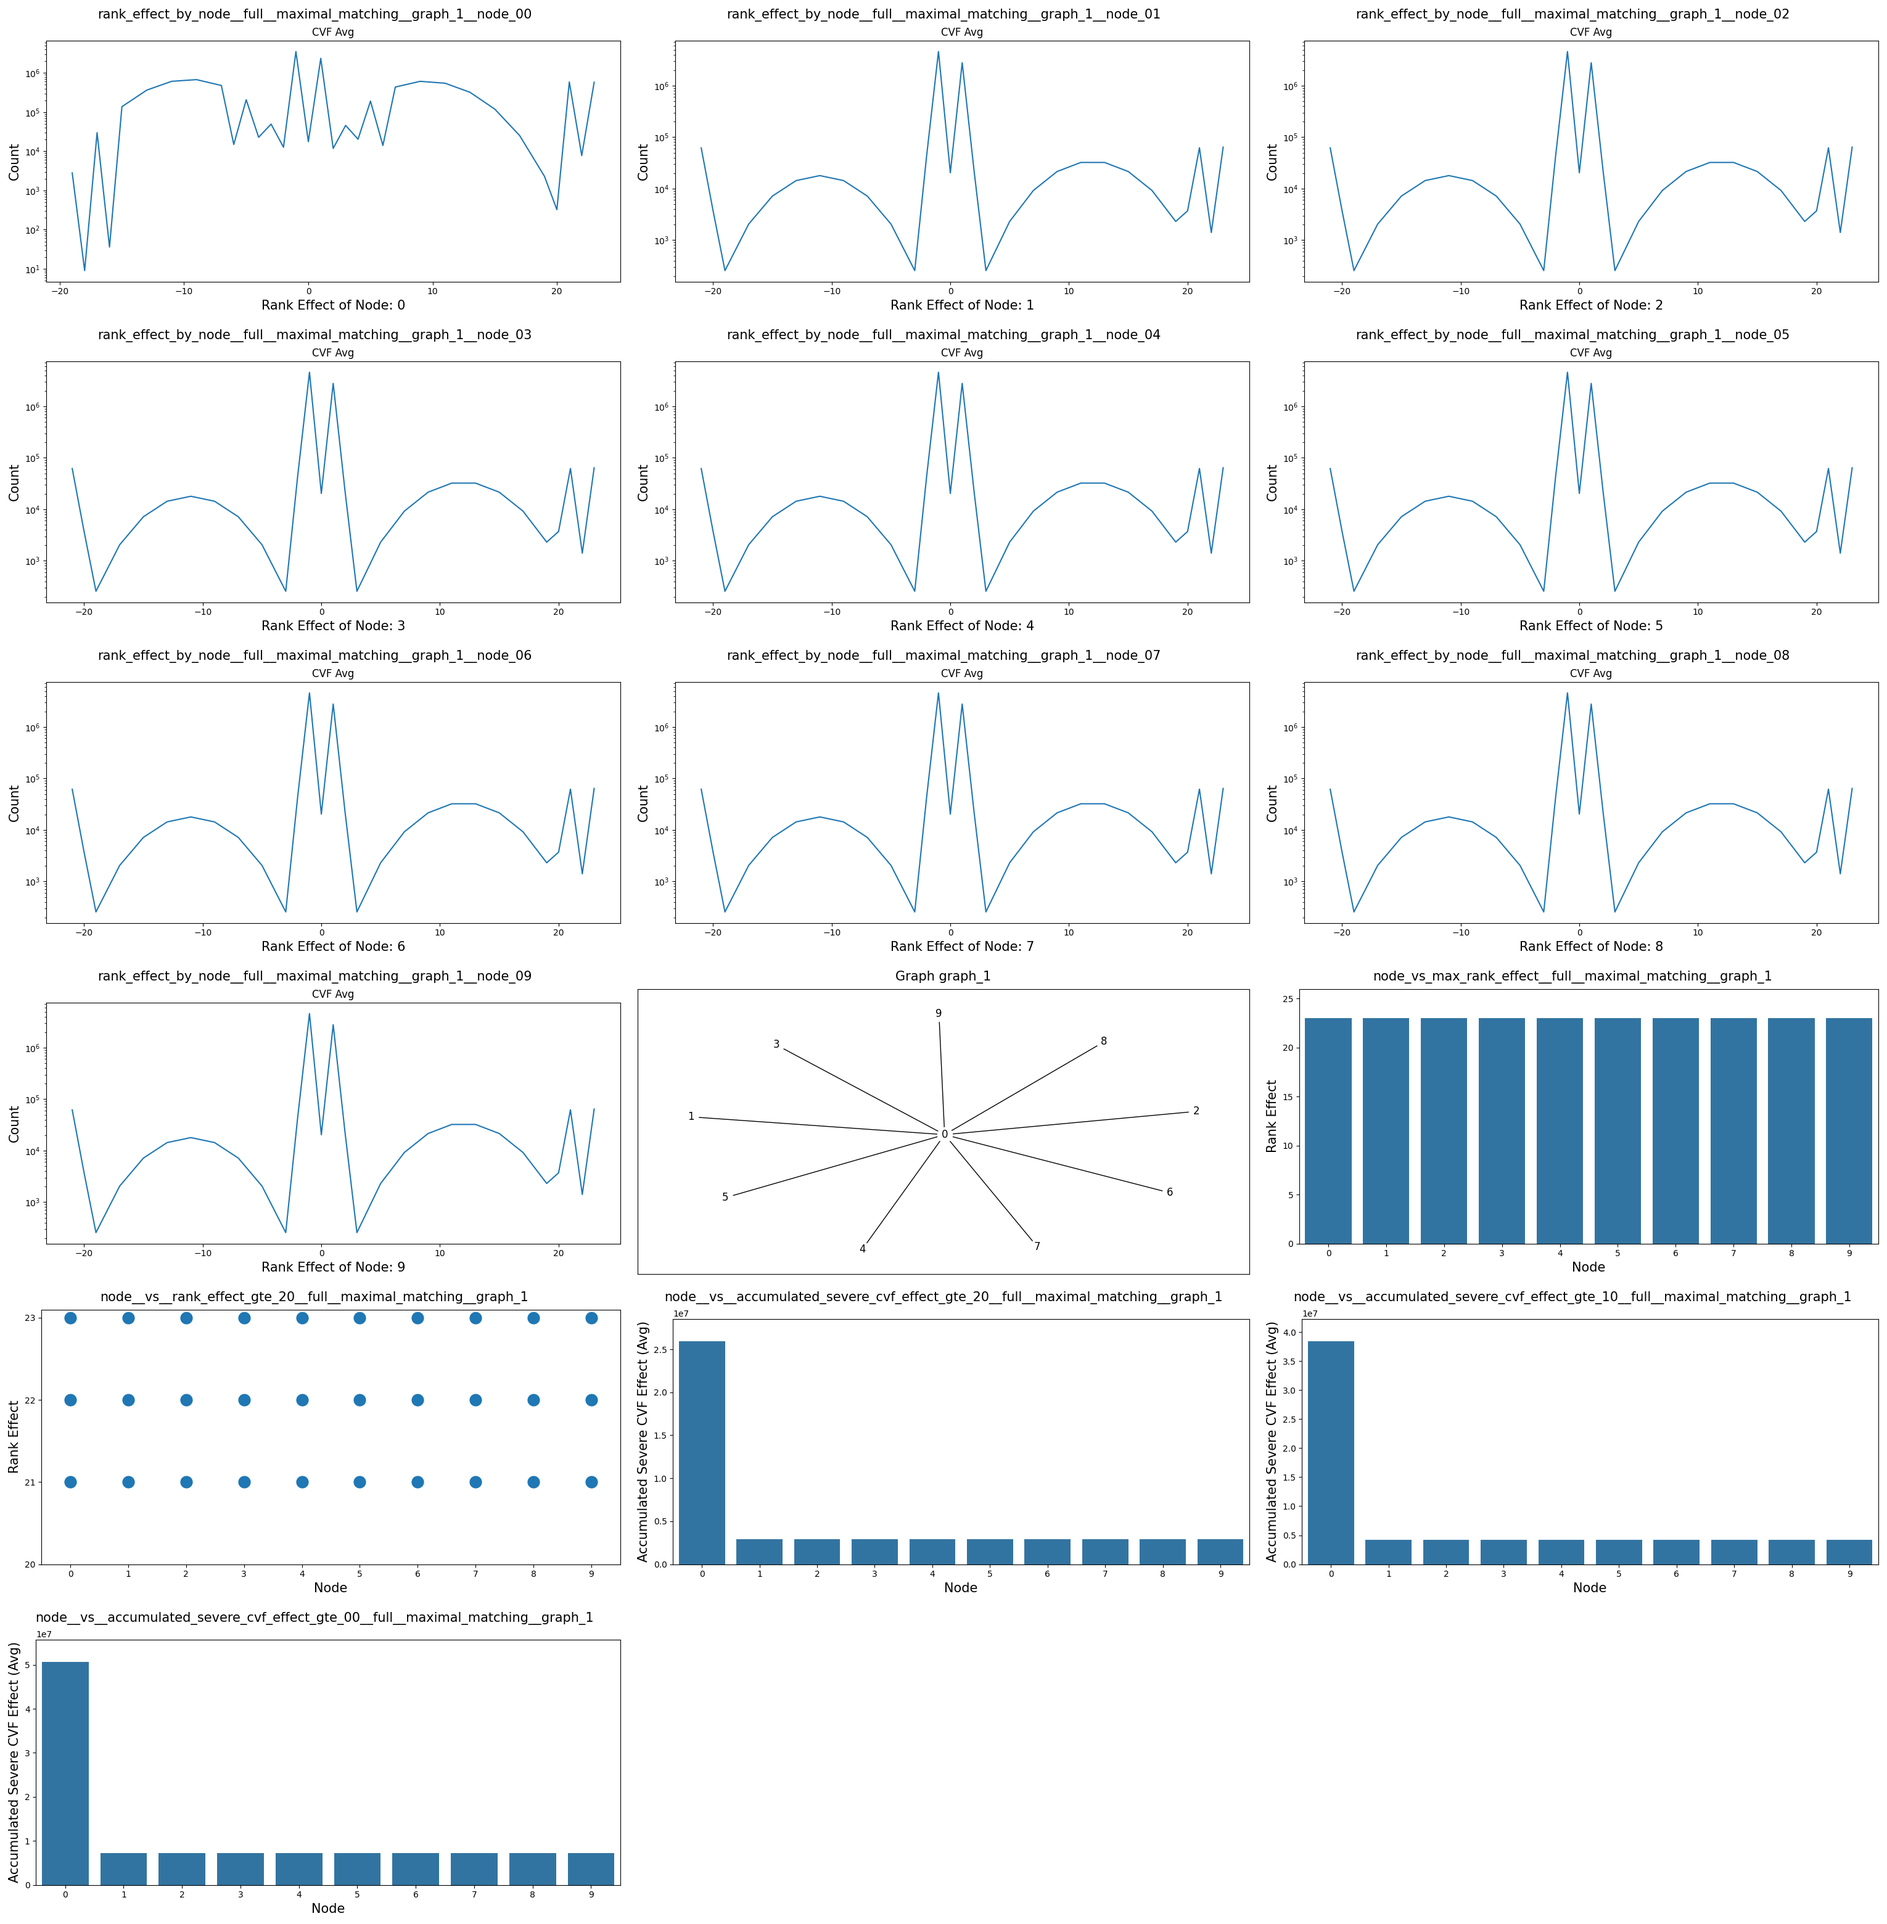
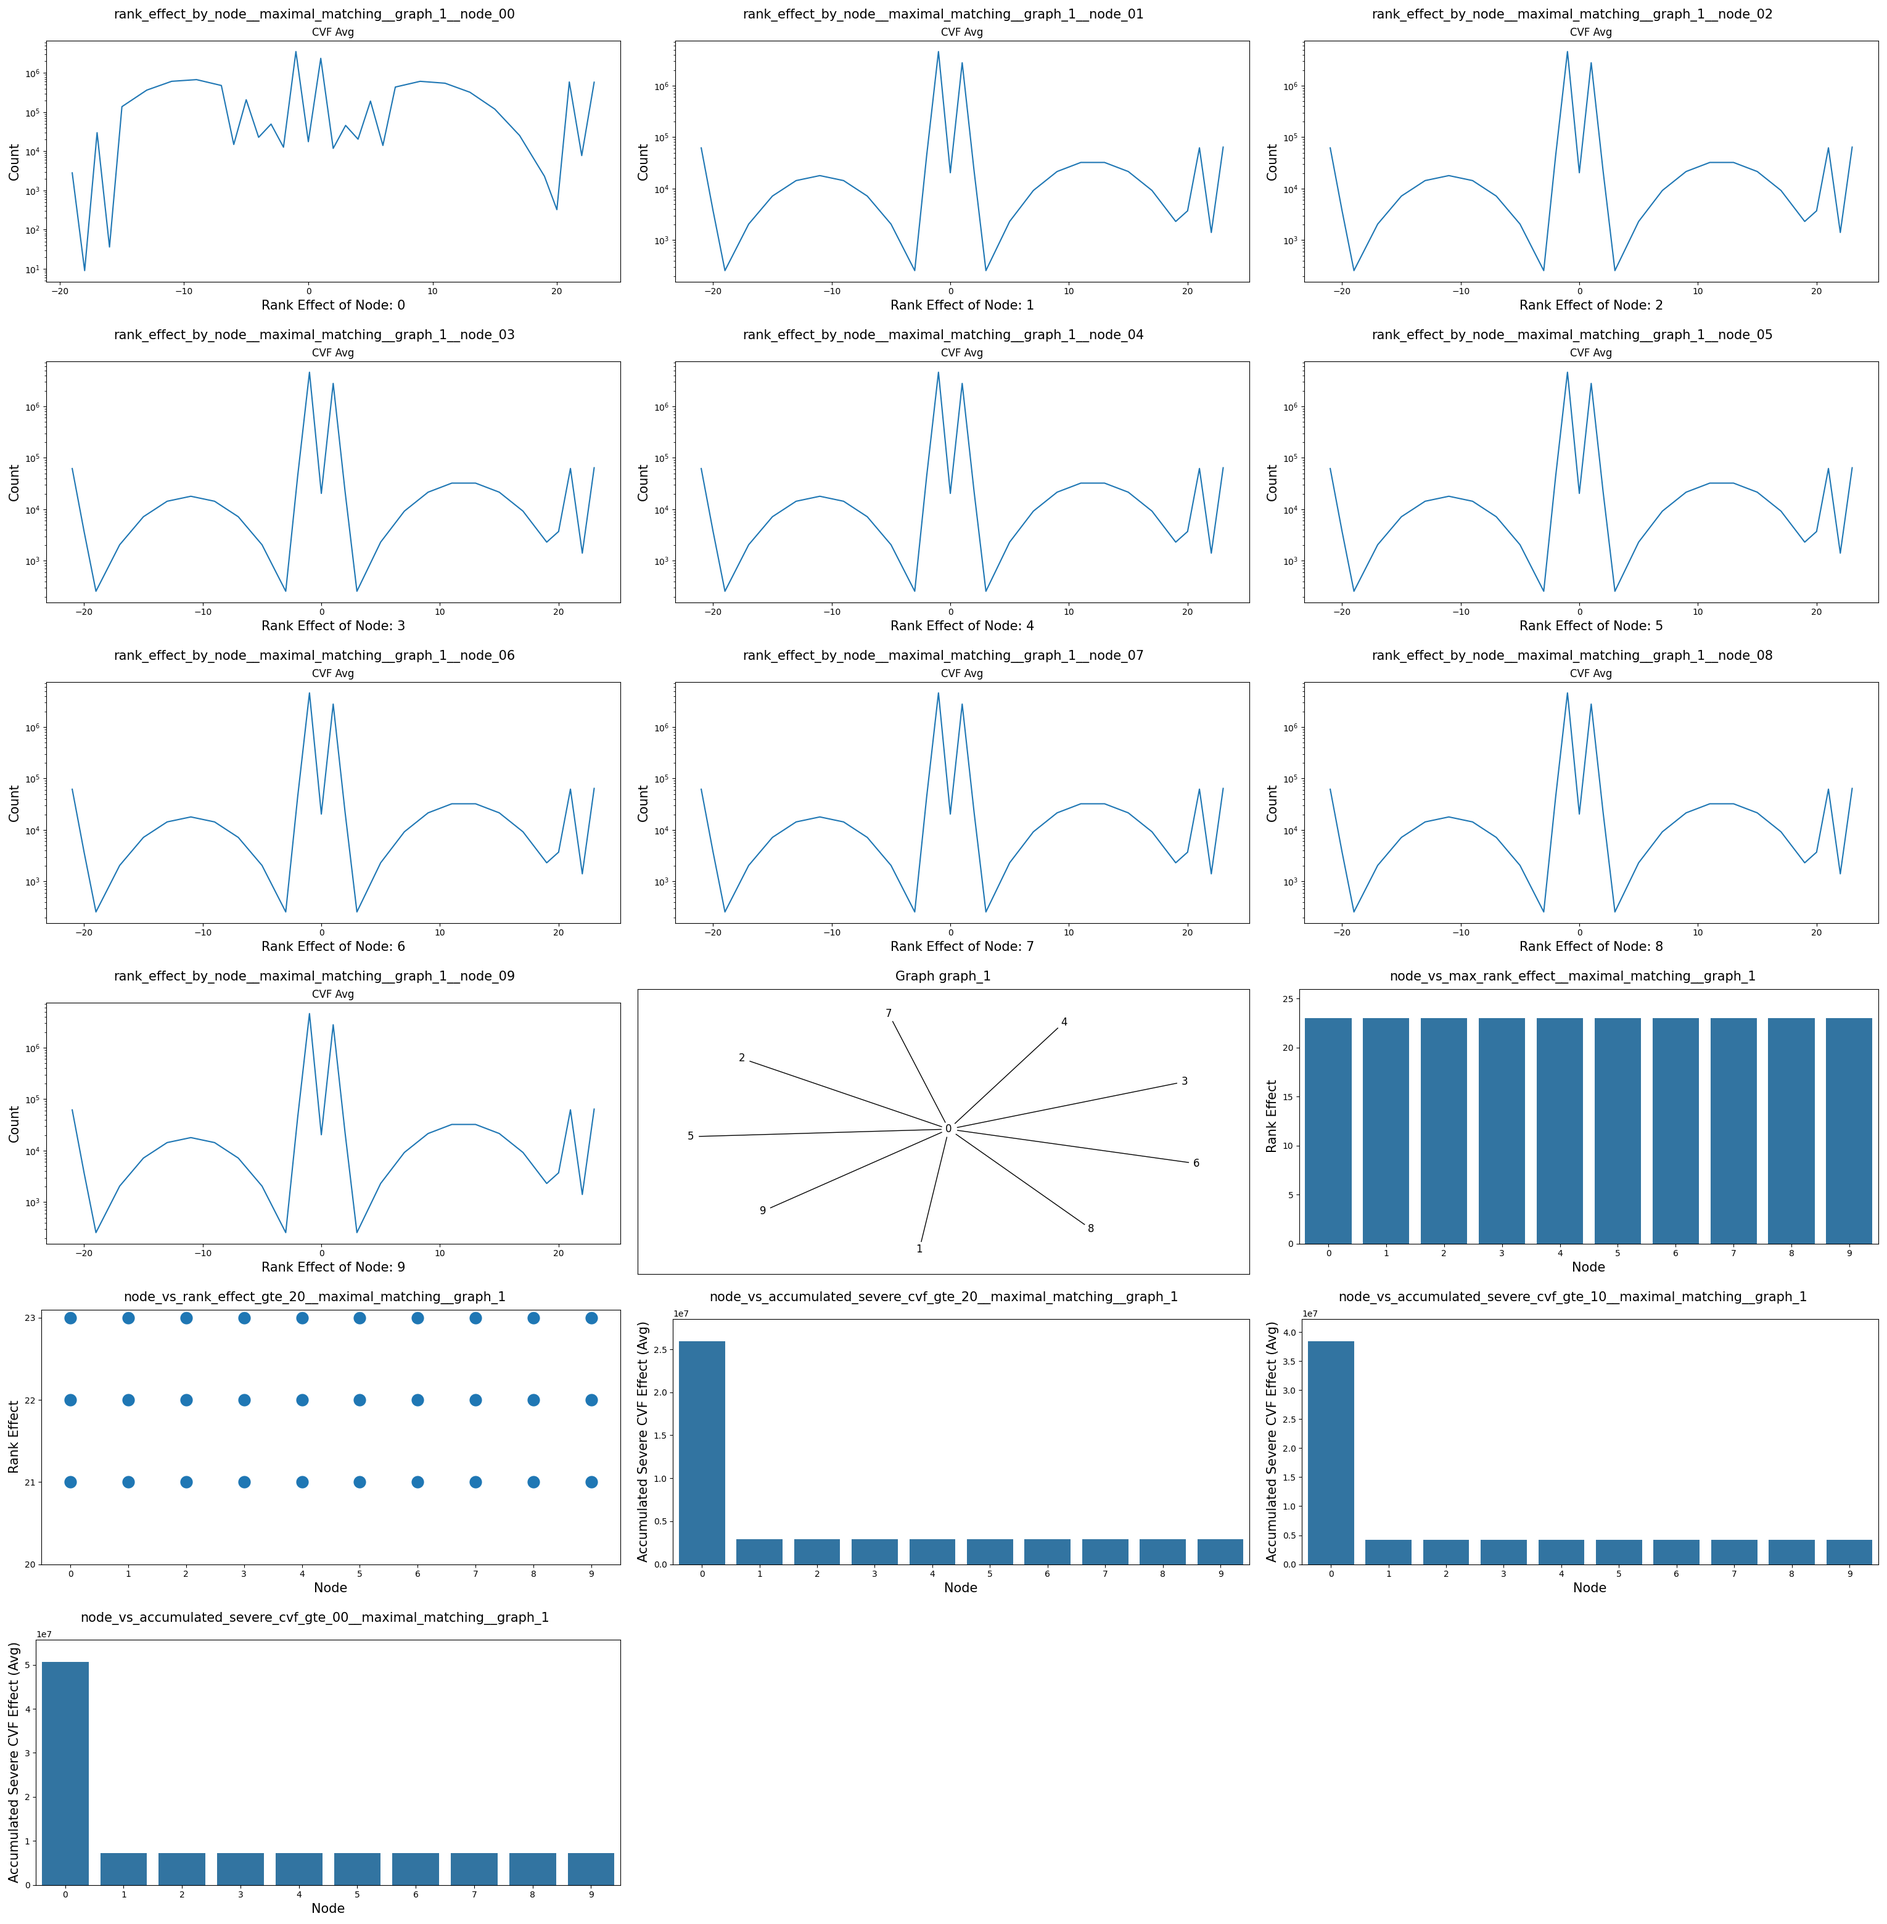
updates

Changed region(s): [[0.4967, 0.5596, 0.5278, 0.5907], [0.2173, 0.6529, 0.2484, 0.684]]

diff --git a/cvf-analysis/plot_results.py b/cvf-analysis/plot_results.py
@@ -1,4 +1,3 @@
-import math
 import os
 import pandas as pd
 import seaborn as sns
@@ -6,8 +5,11 @@ import seaborn as sns
 from matplotlib import pyplot as plt
 
 results_dir = "results"
-program = "maximal_matching"  # coloring, dijkstra_token_ring, maximal_matching, maximal_independent_set
+program = "dijkstra_token_ring"  # coloring, dijkstra_token_ring, maximal_matching, maximal_independent_set
+program_label_map = {"dijkstra_token_ring": "dijkstra_tr"}
+program_label = program_label_map.get(program, program)
 analysis_type = "full"  # full, partial
+fontsize = 15
 graph_names = [
     "graph_1",
     "graph_2",
@@ -19,12 +21,12 @@ graph_names = [
     "graph_7",
     "graph_8",
 ]
-# graph_names = [
-#     "implicit_graph_n10",
-#     "implicit_graph_n11",
-#     "implicit_graph_n12",
-#     "implicit_graph_n13",
-# ]
+graph_names = [
+    "implicit_graph_n10",
+    "implicit_graph_n11",
+    "implicit_graph_n12",
+    "implicit_graph_n13",
+]
 plots_dir = os.path.join("plots", program)
 
 
@@ -48,8 +50,8 @@ def plot_node_rank_effect(node, df, ax):
     df = df.loc[df["CVF (Avg)"] > 0]
     sns.lineplot(data=df, x="Rank Effect", y="CVF (Avg)", ax=ax)
     ax.set(xlabel=f"Rank Effect of Node: {node}", ylabel="Count")
-    ax.xaxis.label.set_size(15)
-    ax.yaxis.label.set_size(15)
+    ax.xaxis.label.set_size(fontsize)
+    ax.yaxis.label.set_size(fontsize)
     ax.set_title("CVF Avg")
     if df.shape[0] > 0:
         ax.set_yscale("log")
@@ -76,26 +78,6 @@ for graph_name in graph_names:
     if df is None:
         continue
     node_grps = df.groupby(["Node"])
-    # fig, axs = plt.subplots(
-    #     node_grps.ngroups, 2, figsize=(12, 20), constrained_layout=True
-    # )
-    no_of_cols = 5
-    no_of_rows = math.ceil(node_grps.ngroups / no_of_cols)
-    fig, axs = plt.subplots(
-        no_of_rows,
-        no_of_cols,
-        figsize=(
-            4 * no_of_cols,
-            4 * no_of_rows,
-        ),
-        constrained_layout=True,
-    )
-    # fig_title = f"rank_effect_by_node__{analysis_type}__{program}__{graph_name}"
-    # fig.suptitle(fig_title, fontsize=16)
-
-    # for i, (index, grp) in enumerate(node_grps):
-    #     plot_node_rank_effect(index[0], grp, axs[i][0])
-    #     plot_node_rank_effect_max(index[0], grp, axs[i][1])
     for i, (index, grp) in enumerate(node_grps):
         fig, axs = plt.subplots(
             1,
@@ -108,26 +90,16 @@ for graph_name in graph_names:
             node_id = f"0{node_id}"
         else:
             node_id = f"{node_id}"
-        fig_title = f"rank_effect_by_node__{analysis_type}__{program}__{graph_name}__node_{node_id}"
-        fig.suptitle(fig_title, fontsize=15)
+        file_name = f"rank_effect_by_node__{analysis_type}__{program}__{graph_name}__node_{node_id}"
+        fig_title = (
+            f"rank_effect_by_node__{program_label}__{graph_name}__node_{node_id}"
+        )
+        fig.suptitle(fig_title, fontsize=fontsize)
         plot_node_rank_effect(index[0], grp, axs)
         fig.savefig(
             os.path.join(
                 plots_dir,
-                f"{fig_title}.png",
+                f"{file_name}.png",
             )
         )
         plt.close()
-
-    # if node_grps.ngroups % no_of_cols != 0:
-    #     r, c = node_grps.ngroups // no_of_cols, node_grps.ngroups % no_of_cols
-    #     while c % no_of_cols != 0:
-    #         axs[r, c].set_axis_off()
-    #         c += 1
-
-    # fig.savefig(
-    #     os.path.join(
-    #         plots_dir,
-    #         f"{fig_title}.png",
-    #     )
-    # )

diff --git a/cvf-analysis/analysis/plot_node_vs_max_cvf_effect.py b/cvf-analysis/analysis/plot_node_vs_max_cvf_effect.py
@@ -29,15 +29,18 @@ def create_plots_dir_if_not_exists():
 def plot_node_vs_max_rank_effect(df, ax, y_max):
     sns.barplot(data=df, x="Node", y="Rank Effect", ax=ax)
     ax.set_ylim(bottom=0, top=math.ceil(y_max * 1.1))
-    ax.xaxis.label.set_size(15)
-    ax.yaxis.label.set_size(15)
+    ax.xaxis.label.set_size(fontsize)
+    ax.yaxis.label.set_size(fontsize)
 
 
 if __name__ == "__main__":
     results_dir = os.path.join(os.pardir, "results")
     graphs_dir = os.path.join(os.pardir, "graphs")
-    program = "maximal_matching"  # coloring, dijkstra_token_ring, maximal_matching, maximal_independent_set
+    program = "dijkstra_token_ring"  # coloring, dijkstra_token_ring, maximal_matching, maximal_independent_set
+    program_label_map = {"dijkstra_token_ring": "dijkstra_tr"}
+    program_label = program_label_map.get(program, program)
     analysis_type = "full"  # full, partial
+    fontsize = 15
     graph_names = [
         "graph_1",
         "graph_2",
@@ -45,12 +48,12 @@ if __name__ == "__main__":
         "graph_6",
         "graph_6b",
     ]
-    # graph_names = [
-    #     "implicit_graph_n10",
-    #     "implicit_graph_n11",
-    #     "implicit_graph_n12",
-    #     "implicit_graph_n13",
-    # ]
+    graph_names = [
+        "implicit_graph_n10",
+        "implicit_graph_n11",
+        "implicit_graph_n12",
+        "implicit_graph_n13",
+    ]
     plots_dir = os.path.join("plots", program, "node_vs_max_cvf_effect")
 
     create_plots_dir_if_not_exists()
@@ -66,8 +69,9 @@ if __name__ == "__main__":
             .droplevel(1, axis=1)
         )
         fig, ax = plt.subplots(1, figsize=(10, 5), constrained_layout=True)
-        fig_title = f"node_vs_max_rank_effect__{analysis_type}__{program}__{graph_name}"
-        fig.suptitle(fig_title, fontsize=15)
+        file_name = f"node_vs_max_rank_effect__{analysis_type}__{program}__{graph_name}"
+        fig_title = f"node_vs_max_rank_effect__{program_label}__{graph_name}"
+        fig.suptitle(fig_title, fontsize=fontsize)
         plot_node_vs_max_rank_effect(
             node_vs_max_rank_effect, ax, node_vs_max_rank_effect["Rank Effect"].max()
         )
@@ -75,6 +79,6 @@ if __name__ == "__main__":
         fig.savefig(
             os.path.join(
                 plots_dir,
-                f"{fig_title}.png",
+                f"{file_name}.png",
             )
         )

diff --git a/cvf-analysis/analysis/plot_node_vs_accumulated_cvf_effect_w_coff.py b/cvf-analysis/analysis/plot_node_vs_accumulated_cvf_effect_w_coff.py
@@ -30,15 +30,18 @@ def create_plots_dir_if_not_exists():
 def plot_node_vs_accumulated_cvf_effect(df, ax, y_max):
     sns.barplot(data=df, x="Node", y="Accumulated Severe CVF Effect (Avg)", ax=ax)
     ax.set_ylim(bottom=0, top=math.ceil(y_max * 1.1))
-    ax.xaxis.label.set_size(15)
-    ax.yaxis.label.set_size(15)
+    ax.xaxis.label.set_size(fontsize)
+    ax.yaxis.label.set_size(fontsize)
 
 
 if __name__ == "__main__":
     results_dir = os.path.join(os.pardir, "results")
     graphs_dir = os.path.join(os.pardir, "graphs")
     program = "dijkstra_token_ring"  # coloring, dijkstra_token_ring, maximal_matching, maximal_independent_set
+    program_label_map = {"dijkstra_token_ring": "dijkstra_tr"}
+    program_label = program_label_map.get(program, program)
     analysis_type = "full"  # full, partial
+    fontsize = 15
     # cut_off = [40, 40, 50, 60]
     cut_off = [20, 10, 15, 10, 10]
     graph_names = [
@@ -87,8 +90,9 @@ if __name__ == "__main__":
                 node_vs_accumulated_cvf_effect.loc[grp] = 0
 
             file_name_substr = f"{c_off}" if len(str(c_off)) > 1 else f"0{c_off}"
-            fig_title = f"node__vs__accumulated_severe_cvf_effect_gte_{file_name_substr}__{analysis_type}__{program}__{graph_name}"
-            fig.suptitle(fig_title, fontsize=15)
+            file_name = f"node__vs__accumulated_severe_cvf_effect_gte_{file_name_substr}__{analysis_type}__{program}__{graph_name}"
+            fig_title = f"node_vs_accumulated_severe_cvf_gte_{file_name_substr}__{program_label}__{graph_name}"
+            fig.suptitle(fig_title, fontsize=fontsize)
             plot_node_vs_accumulated_cvf_effect(
                 node_vs_accumulated_cvf_effect,
                 ax,
@@ -99,6 +103,6 @@ if __name__ == "__main__":
             fig.savefig(
                 os.path.join(
                     plots_dir,
-                    f"{fig_title}.png",
+                    f"{file_name}.png",
                 )
             )

diff --git a/cvf-analysis/analysis/plot_node_vs_cvf_effect_w_coff.py b/cvf-analysis/analysis/plot_node_vs_cvf_effect_w_coff.py
@@ -35,8 +35,8 @@ def plot_node_vs_rank_effect(df, ax, node_id_max, c_off):
     rank_effect_max = df["Rank Effect"].max()
     ax.set_xlim(left=-0.5, right=node_id_max + 0.5)
     ax.set_xticks([i for i in range(0, node_id_max + 1)])
-    ax.xaxis.label.set_size(15)
-    ax.yaxis.label.set_size(15)
+    ax.xaxis.label.set_size(fontsize)
+    ax.yaxis.label.set_size(fontsize)
     if program == "coloring" or program == "maximal_matching":
         ax.set_yticks([i for i in range(c_off, rank_effect_max + 1)])
 
@@ -45,7 +45,10 @@ if __name__ == "__main__":
     results_dir = os.path.join(os.pardir, "results")
     graphs_dir = os.path.join(os.pardir, "graphs")
     program = "dijkstra_token_ring"  # coloring, dijkstra_token_ring, maximal_matching, maximal_independent_set
+    program_label_map = {"dijkstra_token_ring": "dijkstra_tr"}
+    program_label = program_label_map.get(program, program)
     analysis_type = "full"  # full, partial
+    fontsize = 15
     cut_off = [0, 0, 0, 0, 0, 0]
     graph_names = [
         "graph_1",
@@ -85,13 +88,14 @@ if __name__ == "__main__":
         data = grps.groups.keys()
         df = pd.DataFrame(data, columns=["Node", "Rank Effect"])
         fig, ax = plt.subplots(1, figsize=(10, 5), constrained_layout=True)
-        fig_title = f"node__vs__rank_effect_gte_{cut_off[indx]}__{analysis_type}__{program}__{graph_name}"
-        fig.suptitle(fig_title, fontsize=15)
+        file_name = f"node__vs__rank_effect_gte_{cut_off[indx]}__{analysis_type}__{program}__{graph_name}"
+        fig_title = f"node_vs_rank_effect_gte_{cut_off[indx]}__{program_label}__{graph_name}"
+        fig.suptitle(fig_title, fontsize=fontsize)
         plot_node_vs_rank_effect(df, ax, node_id_max, cut_off[indx])
 
         fig.savefig(
             os.path.join(
                 plots_dir,
-                f"{fig_title}.png",
+                f"{file_name}.png",
             )
         )

diff --git a/cvf-analysis/analysis/plot_node_degree_vs_cvf_effect.py b/cvf-analysis/analysis/plot_node_degree_vs_cvf_effect.py
@@ -47,14 +47,18 @@ def plot_node_degree_vs_rank_effect(df, ax):
     sns.scatterplot(data=df, x="Node Degree", y="Rank Effect", ax=ax, s=500)
     rank_effect_max = df["Rank Effect"].max()
     ax.set_yticks([i for i in range(0, rank_effect_max + 1)])
-    ax.xaxis.label.set_size(15)
-    ax.yaxis.label.set_size(15)
+    ax.xaxis.label.set_size(fontsize)
+    ax.yaxis.label.set_size(fontsize)
+
 
 if __name__ == "__main__":
     results_dir = os.path.join(os.pardir, "results")
     graphs_dir = os.path.join(os.pardir, "graphs")
     program = "coloring"  # coloring, dijkstra_token_ring, maximal_matching, maximal_independent_set
+    program_label_map = {"dijkstra_token_ring": "dijkstra_tr"}
+    program_label = program_label_map.get(program, program)
     analysis_type = "full"  # full, partial
+    fontsize = 15
     graph_names = [
         "graph_1",
         "graph_2",
@@ -78,15 +82,16 @@ if __name__ == "__main__":
         df = pd.DataFrame(data, columns=["Node Degree", "Rank Effect"])
         df["Node Degree"] = df["Node Degree"].astype("str")
         fig, ax = plt.subplots(1, figsize=(10, 5), constrained_layout=True)
-        fig_title = (
+        file_name = (
             f"node_degree_vs_rank_effect__{analysis_type}__{program}__{graph_name}"
         )
-        fig.suptitle(fig_title, fontsize=15)
+        fig_title = f"node_degree_vs_rank_effect__{program}__{graph_name}"
+        fig.suptitle(fig_title, fontsize=fontsize)
         plot_node_degree_vs_rank_effect(df, ax)
 
         fig.savefig(
             os.path.join(
                 plots_dir,
-                f"{fig_title}.png",
+                f"{file_name}.png",
             )
         )

diff --git a/cvf-analysis/plot_graphs.py b/cvf-analysis/plot_graphs.py
@@ -15,6 +15,7 @@ graph_names = [
 ]
 
 planar = False
+fontsize = 15
 
 for gname in graph_names:
     G = nx.read_adjlist(f"graphs/{gname}.txt")
@@ -25,6 +26,6 @@ for gname in graph_names:
     else:
         nx.draw_networkx(G, node_color="white", ax=fig.add_subplot())
 
-    fig.suptitle(f"Graph {gname}", fontsize=15)
+    fig.suptitle(f"Graph {gname}", fontsize=fontsize)
     fig.savefig(f"graph_images/{gname}.png")
     # plt.show()
